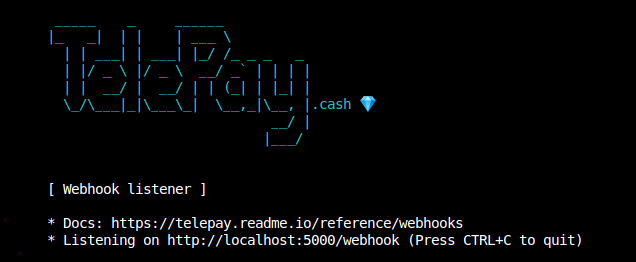
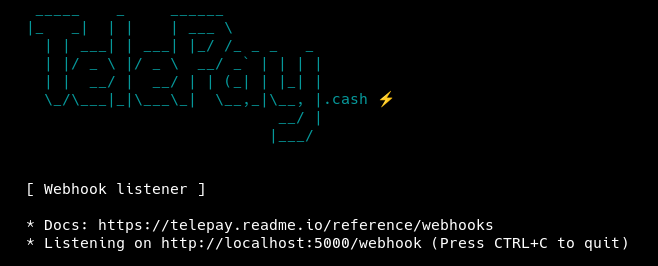
perf: updated webhook listener

diff --git a/telepay/v1/webhooks.py b/telepay/v1/webhooks.py
@@ -73,7 +73,7 @@ class TelePayWebhookListener:
               | | ___| | ___| |_/ /_ _ _   _
               | |/ _ \ |/ _ \  __/ _` | | | |
               | |  __/ |  __/ | | (_| | |_| |
-              \_/\___|_|\___\_|  \__,_|\__, |.cash 💎
+              \_/\___|_|\___\_|  \__,_|\__, |.cash ⚡
                                         __/ |
                                        |___/
             """
